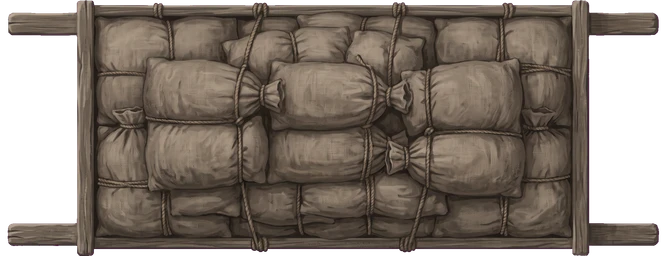
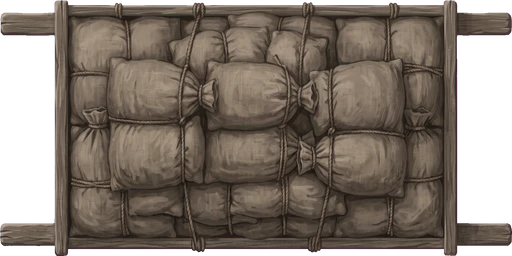
fix: the whole sledge sits inside the cells it owns
Hanging the runners over the neighbouring cell was truer to the object
and read as clutter: a dozen pieces overlapping each other makes a board
look jumbled rather than gridded, and the grid is what a player plans
against here.

So each sprite is cropped to its whole silhouette, handles included, and
fills its box exactly. Length is read off the sledge rather than off the
cell lines, which works because the handles are visibly part of the
thing — nobody looks at a cart and counts the deck.

diff --git a/src/mods/puzzle/app/rushHour/RushHourBoard.tsx b/src/mods/puzzle/app/rushHour/RushHourBoard.tsx
@@ -30,15 +30,6 @@ type Props = {
  * **So the frame keeps a gutter to its east and the way out is drawn in it**, outside the board where no
  * piece can cover it. The frame takes 92% of the width it is given and the marker has the rest.
  */
-/**
- * How much wider than its own deck a painted sprite's canvas is (`art-pipeline.md` §A.2).
- *
- * **The sprites are authored with this much transparent margin either side**, so the deck can land exactly
- * on the cell lines while the runners that stick out past it are still drawn. A sledge whose handles are
- * cropped to its deck looks sawn off at both ends, and a sledge drawn to its handles lies about its length.
- */
-const OVERHANG = 1.3
-
 export const RushHourBoard: FC<Props> = ({ puzzle, state, skin, hintPiece, hintCells, leaving, onSlide }) => {
   const frame = useRef<HTMLDivElement>(null)
   /** The piece being dragged: which one, where the finger went down, and the offset it started at. */
@@ -159,22 +150,23 @@ export const RushHourBoard: FC<Props> = ({ puzzle, state, skin, hintPiece, hintC
                   src={mine ? skin.art.player : piece.len === 3 ? skin.art.piece3 : skin.art.piece2}
                   alt=""
                   draggable={false}
-                  // `max-w-none` because preflight caps an image at the width of its box, and every sprite
-                  // here is deliberately WIDER than its box — without it the art is squashed, not overhung.
+                  // `max-w-none` because preflight caps an image at the width of its box, and a turned sprite
+                  // is deliberately wider than its box — without it the art is squashed rather than turned.
                   className="pointer-events-none absolute max-w-none object-fill"
-                  // **The sprite is wider than the cells it owns, and that is the point.** A sledge's runners
-                  // stick out past its deck, so the art carries `OVERHANG` of empty canvas either side and is
-                  // drawn that much wider than the box: the DECK lands on the cell lines, which is what makes
-                  // a 3 read as a 3, and the handles hang over the neighbours the way real ones would.
+                  // **The whole sledge is inside the cells it owns, runners and all.** Drawing the deck to the
+                  // cell lines and letting the handles hang over the neighbours was truer to the object and
+                  // read as clutter — a dozen pieces overlapping each other is a board that looks jumbled
+                  // rather than gridded. Whole-object-in-box asks the player to read length off the sledge
+                  // rather than off the cell lines, which they can: the handles are visibly part of the thing.
                   //
                   // **A piece across the board is the piece along it, turned** — one image serves both axes,
-                  // which only works because the art has no lighting direction (`rush-hour.md` §5). Both cases
-                  // hang the image off the box's middle, so the overhang splits evenly whichever way it faces.
+                  // which only works because the art has no lighting direction (`rush-hour.md` §5). A turned
+                  // image swaps the box it fills, so it is hung off the middle and spun there.
                   style={{
                     top: "50%",
                     left: "50%",
                     translate: "-50% -50%",
-                    width: `${(piece.horizontal ? OVERHANG : OVERHANG * piece.len) * 100}%`,
+                    width: `${(piece.horizontal ? 1 : piece.len) * 100}%`,
                     height: `${(piece.horizontal ? 1 : 1 / piece.len) * 100}%`,
                     rotate: piece.horizontal ? undefined : "90deg",
                   }}
